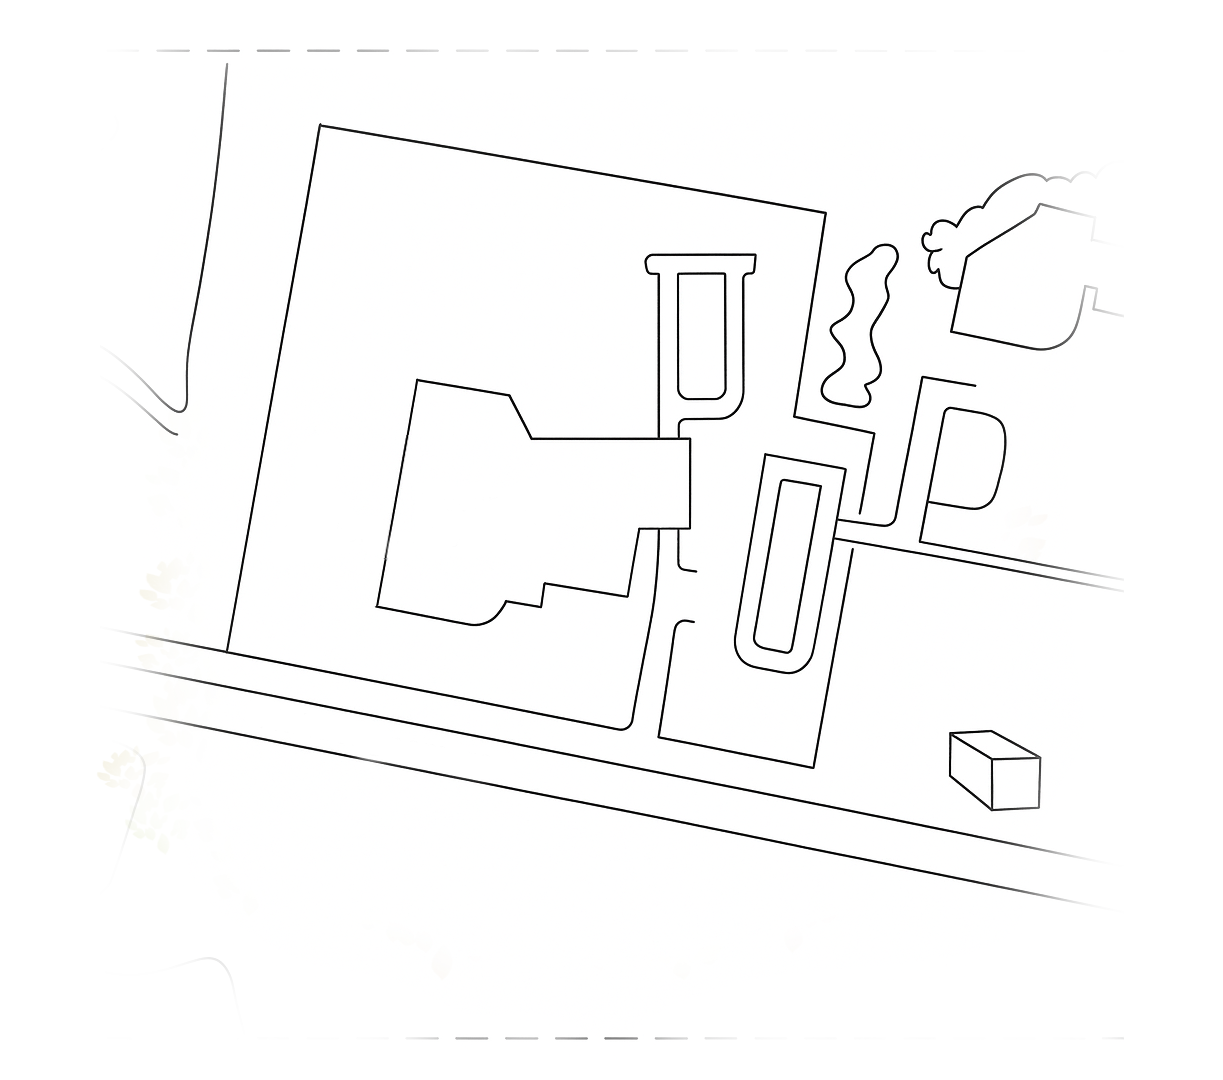
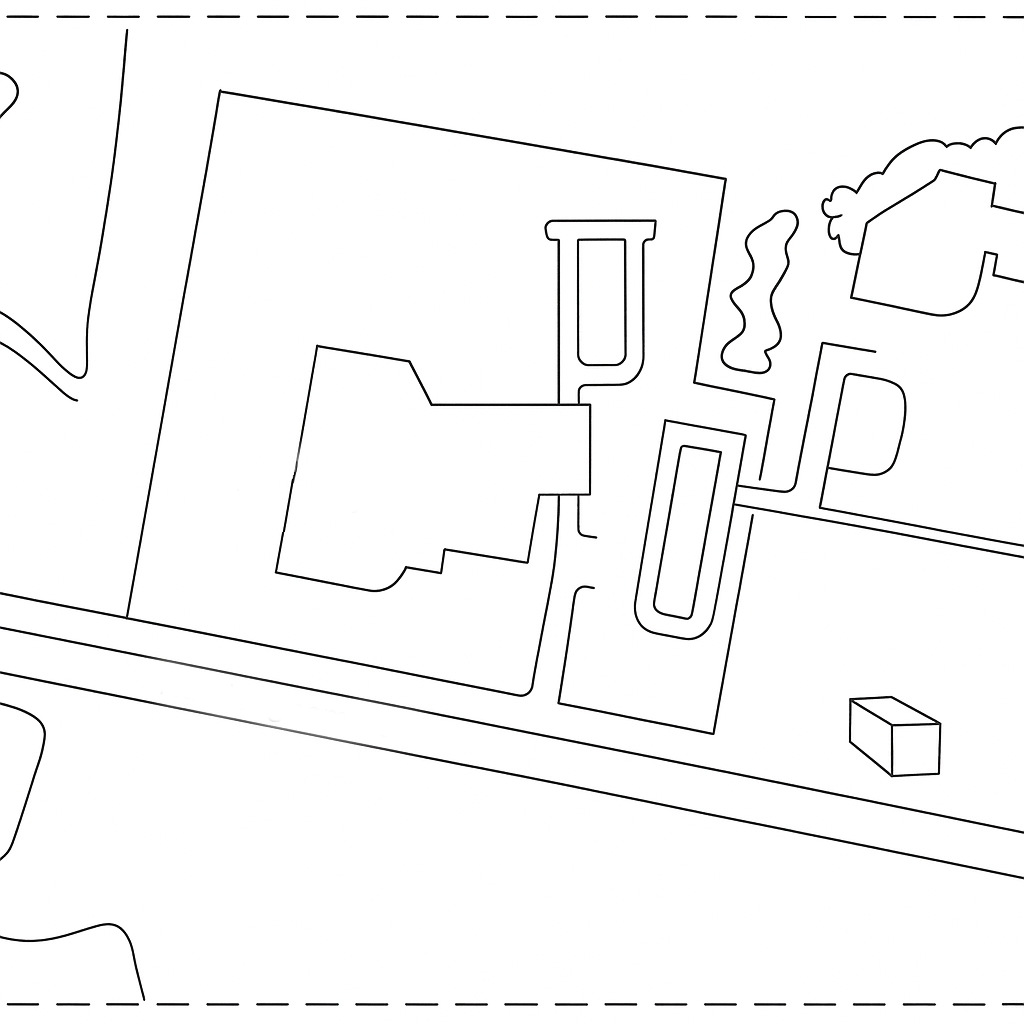
미술관 오버레이 이미지 적용

diff --git a/assets/js/config.js b/assets/js/config.js
@@ -129,7 +129,7 @@ const MAP_STYLE = [
         ]
     }
 ];
-const TARGET_ZOOM_LEVEL = 22; // 실제로 적용할 줌 레벨
+const TARGET_ZOOM_LEVEL = 21; // 실제로 적용할 줌 레벨
 const USE_MOCK = false; // GPS 모킹 테스트 모드 (true, false)
 const VALID_GPS_ACCURACY = 30; // 업데이트할만한 GPS 정확도 기준
 const UPDATE_INTERVAL = 3 * 1000 // 위치 업데이트 주기
@@ -157,8 +157,8 @@ const GALLERY_IMAGE = `${SITE_URL}/assets/img/gallery.png`;
 const mode = "1";
 if (mode === "1") {
     MUSEUM_BOUNDS = {
-        SW: {lat: 35.1088968, lng: 128.9421497},
-        NE: {lat: 35.1102139, lng: 128.9436165},
+        SW: {lat: 35.107652, lng: 128.941041},
+        NE: {lat: 35.110951, lng: 128.945074}
     };
     GALLERY_BOUNDS = {
         SW: {lat: 35.10928655, lng: 128.94263734},
@@ -201,7 +201,7 @@ const MAP_OPTIONS = {
     mapTypeControl: false,
     fullscreenControl: false,
     zoomControl: true,
-    minZoom: 19,
+    minZoom: 18,
     streetViewControl: false,
     gestureHandling: "greedy",
     // restriction: {
@@ -224,7 +224,6 @@ function getDistanceMeters(lat1, lng1, lat2, lng2) {
 
     return R * 2 * Math.atan2(Math.sqrt(a), Math.sqrt(1 - a));
 }
-
 
 const GALLERY_COUNT = 1; // 전시장 내부에 위치할 마커는 최소 2개
 
